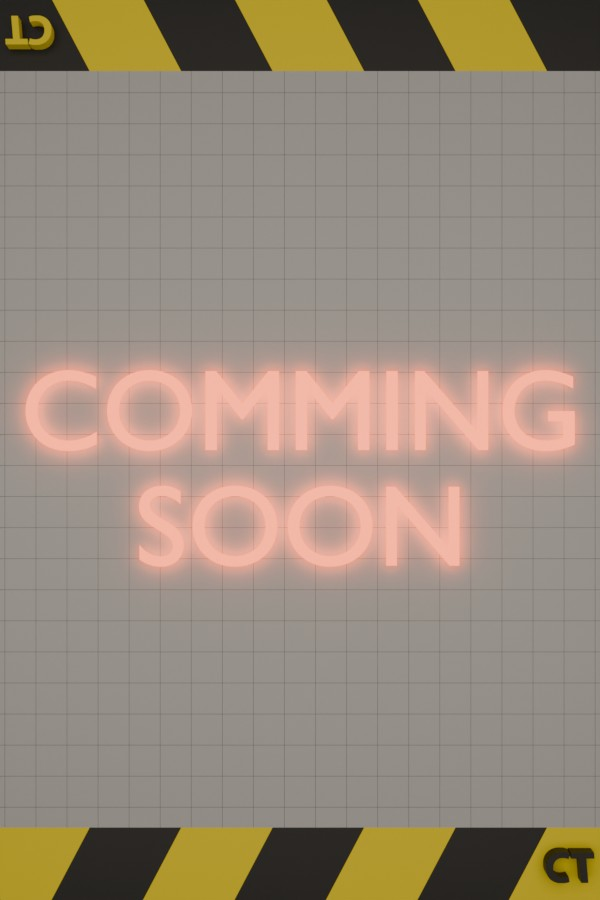
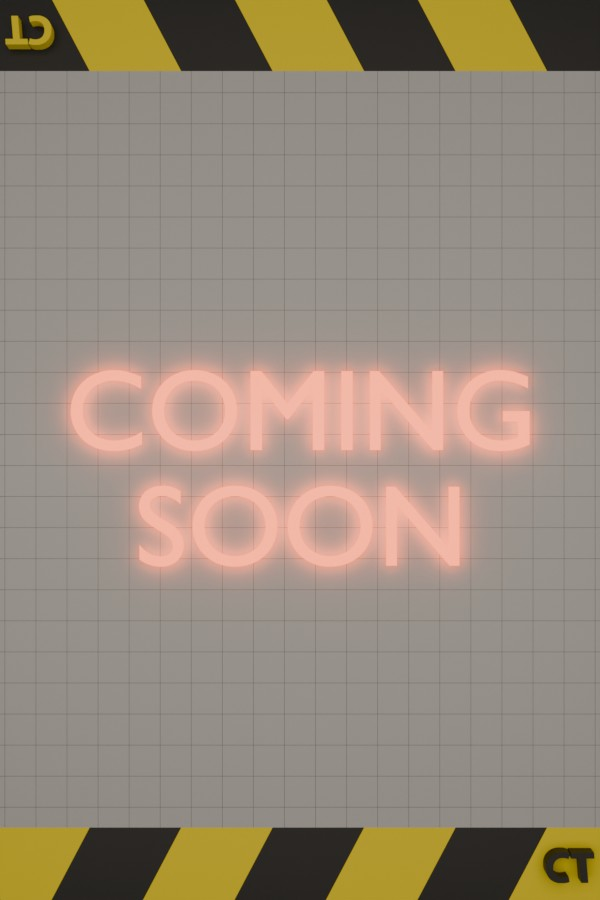
fixed stupid mistake

Changed region(s): [[0.0, 0.3733, 0.99, 0.5289]]

diff --git a/index.html b/index.html
@@ -225,6 +225,7 @@
             </div>
             <div class="project" data-id="2">
                 <h3>Cyber League</h3>
+                <i class="fab fa-steam steam-icon"></i>
                 <img src="images/game2.jpg" alt="Game 2 Screenshot">
                 <p>Fast-paced tactical shooter.</p>
                 <a href="#" class="details-btn">Details</a>
@@ -259,18 +260,21 @@
             </div>
             <div class="project" data-id="7">
                 <h3>Pixel Dungeon</h3>
+                <i class="fa-brands fa-itch-io itch-icon"></i>
                 <img src="images/Comming soon Card.jpg" alt="Game 1 Screenshot">
                 <p>A retro-style dungeon crawler.</p>
                 <a href="#" class="details-btn">Details</a>
             </div>
             <div class="project" data-id="8">
                 <h3>Space Invaders</h3>
+                <i class="fa-brands fa-itch-io itch-icon"></i>
                 <img src="images/Comming soon Card.jpg" alt="Game 8 Screenshot">
                 <p>A modern take on a classic.</p>
                 <a href="#" class="details-btn">Details</a>
             </div>
             <div class="project" data-id="9">
                 <h3>Super Jump</h3>
+                <i class="fa-brands fa-itch-io itch-icon"></i>
                 <img src="images/Comming soon Card.jpg" alt="Game 9 Screenshot">
                 <p>A fast-paced platformer.</p>
                 <a href="#" class="details-btn">Details</a>
